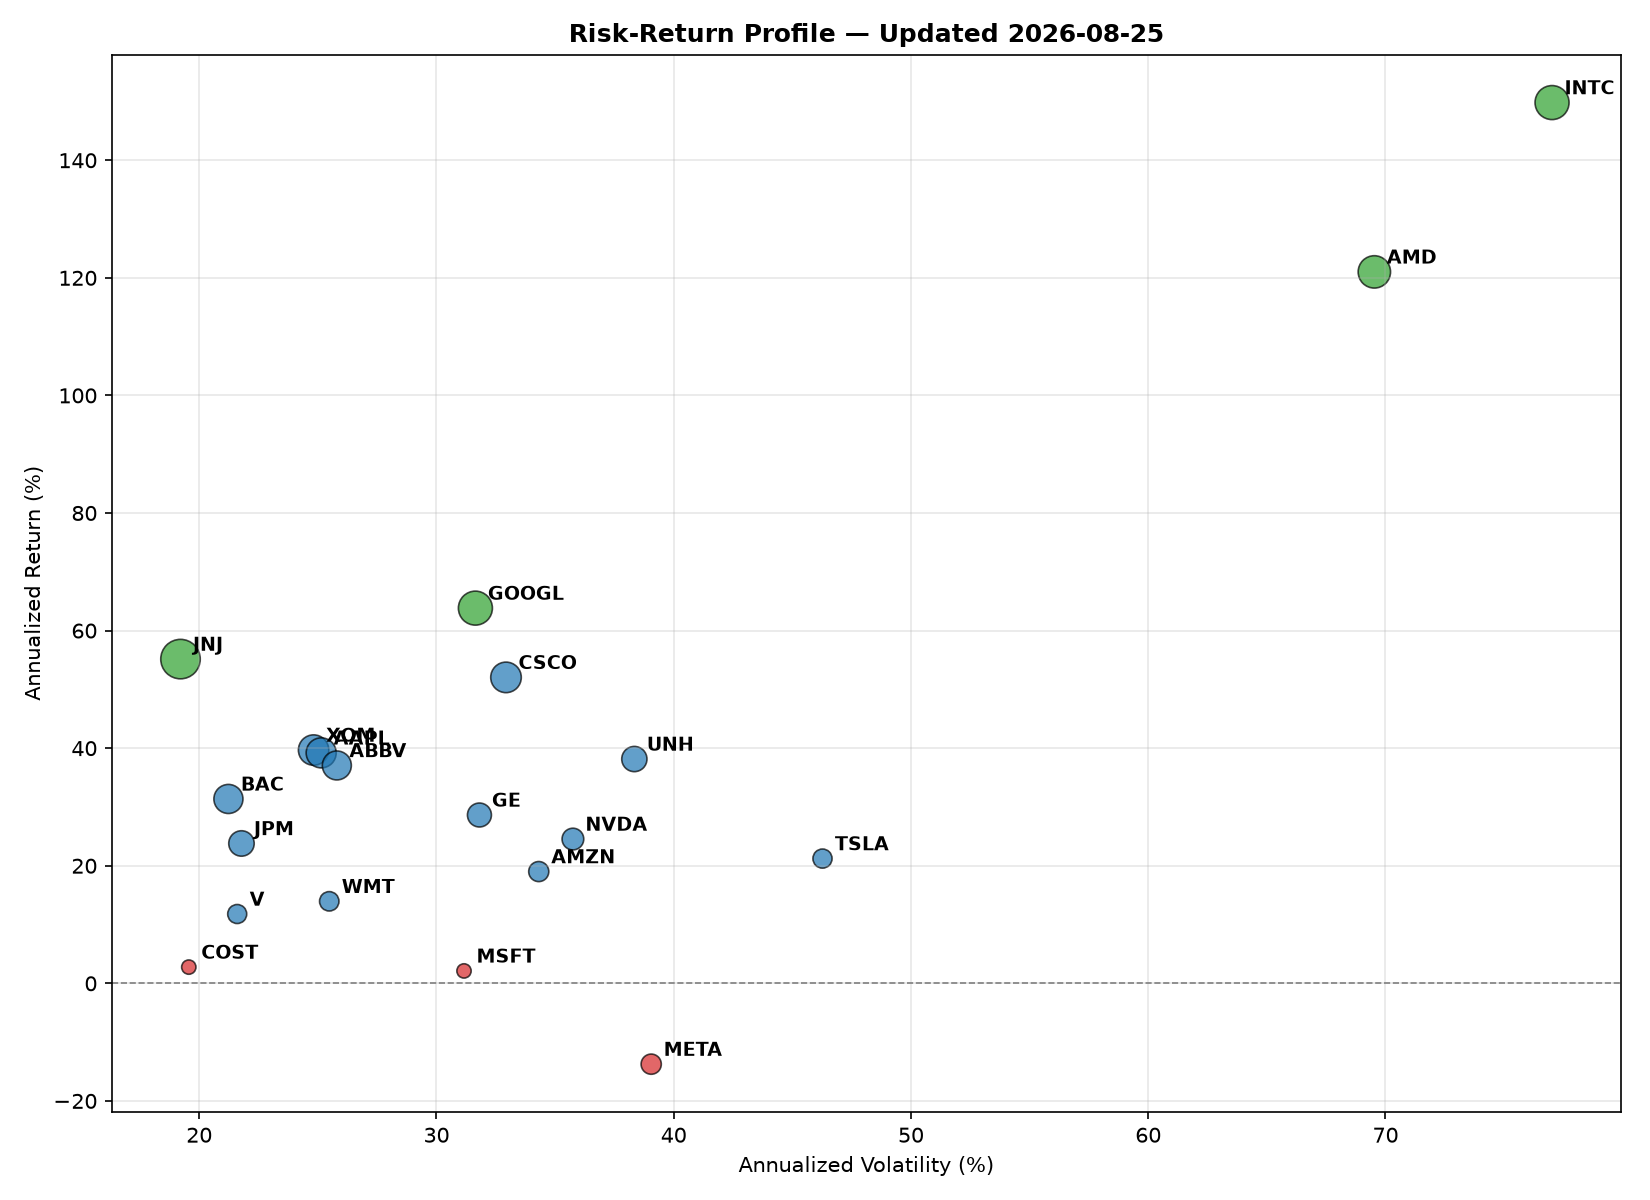
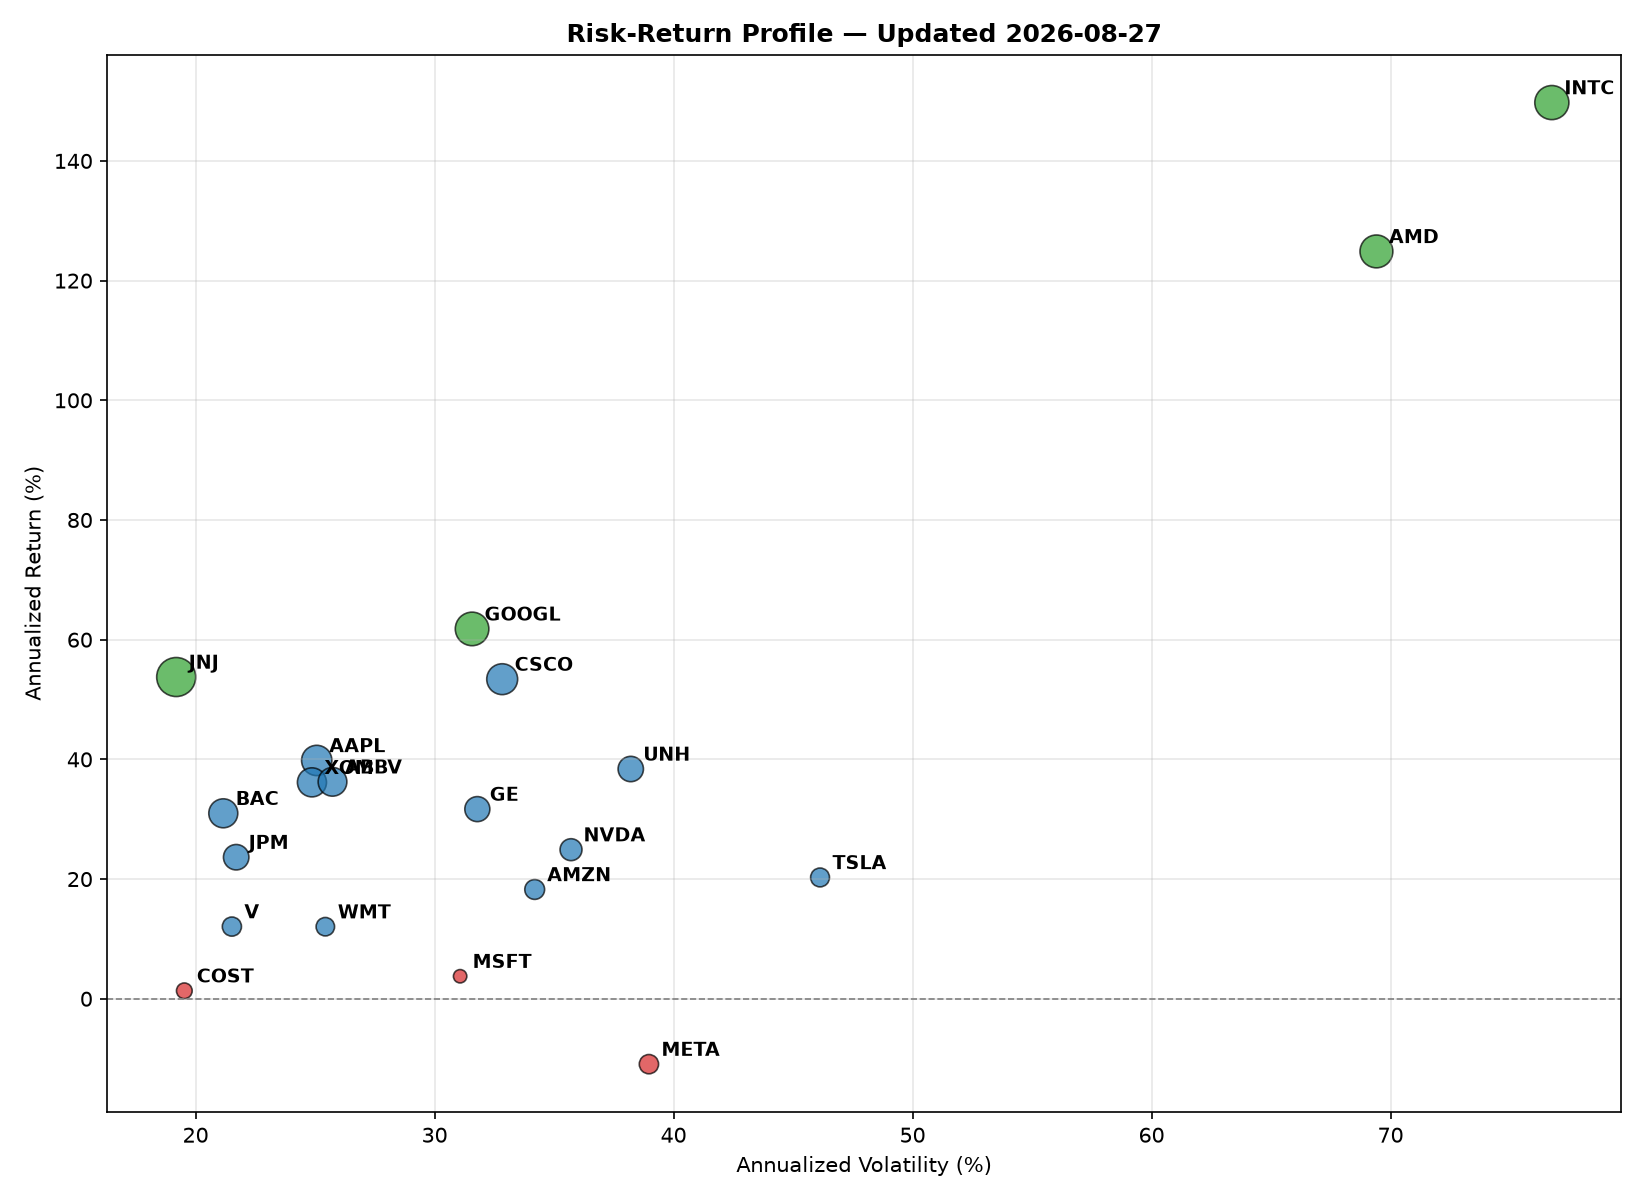
Automated daily update: prices, metrics, and charts

diff --git a/SNAPSHOT.md b/SNAPSHOT.md
@@ -1,9 +1,9 @@
-# Daily Risk Snapshot — 2026-08-24
+# Daily Risk Snapshot — 2026-08-26
 
-**Best mover:** V (+3.06%)
-**Worst mover:** TSLA (-3.83%)
-**Top risk-adjusted performer (trailing window):** JNJ (Sharpe 2.66)
+**Best mover:** GE (+1.39%)
+**Worst mover:** NVDA (-1.59%)
+**Top risk-adjusted performer (trailing window):** JNJ (Sharpe 2.59)
 
-**⚠ Newly anomalous today:** V — return moved more than 2 std. deviations from its own 20-day trailing mean.
+**No new anomaly flags today.**
 
 _Auto-generated by `scripts/daily_snapshot.py` via GitHub Actions._
